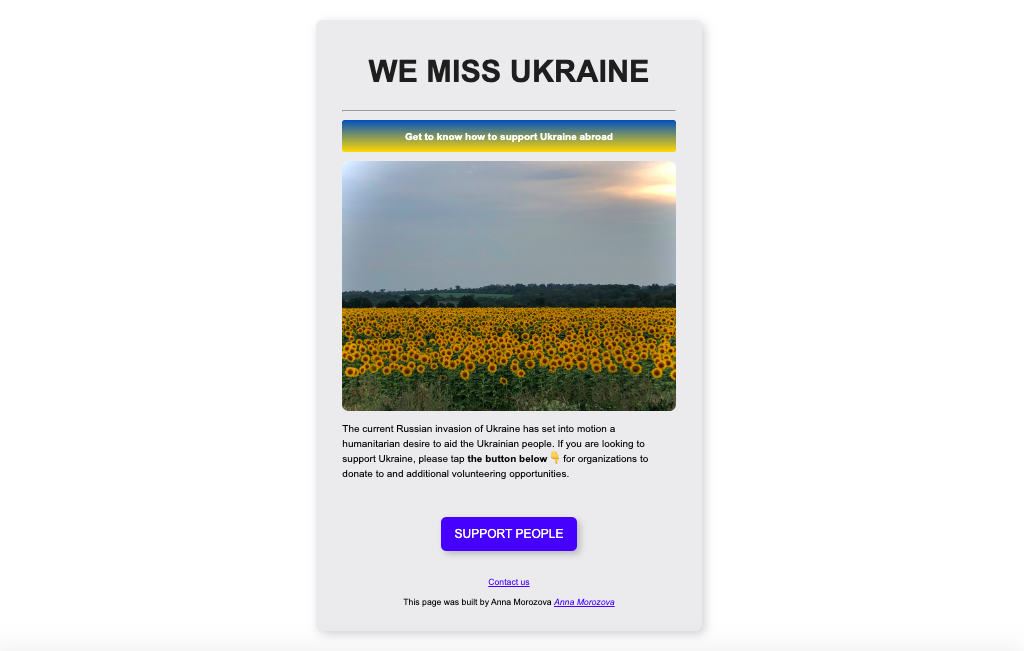
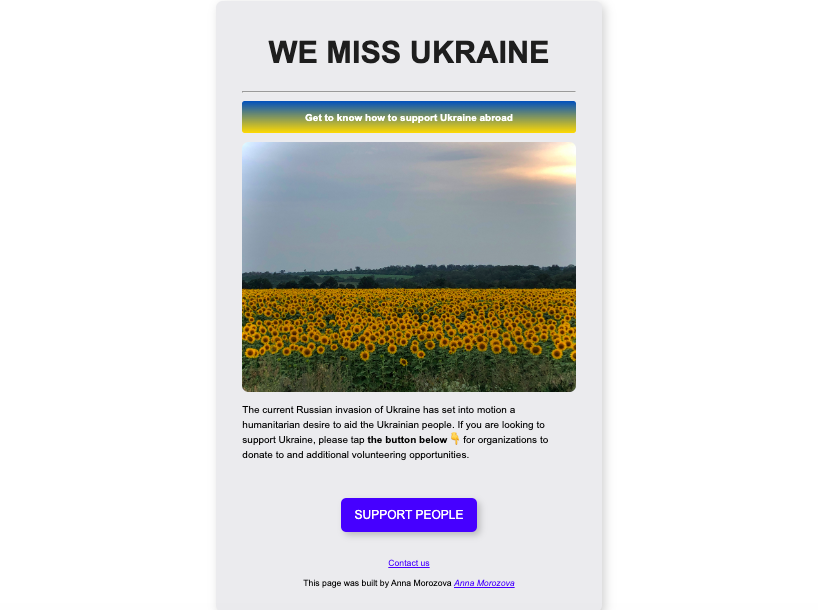
responsiveness updated

Changed region(s): [[0.2751, 0.1557, 0.7029, 0.9656], [0.3056, 0.0623, 0.6724, 0.1246]]

diff --git a/style.css b/style.css
@@ -6,8 +6,7 @@ body {
 
 #header {
     display: flex;
-    
-    margin: 32px 20px;
+    margin: 32px 0px;
 }
 
 h1 {
@@ -19,8 +18,8 @@ h1 {
 }
 
 h2 {
-    margin-top: -25px;
-    font-size: 172px;
+    margin-top: -16px;
+    font-size: 132px;
     font-weight: 100;
     color: #1e1e1e
 }
@@ -32,7 +31,9 @@ h3 {
   font-weight: 200;
   margin-top: 120px;
   color: white;
-  text-align: center;
+  text-align: right;
+  padding-right: 10px;
+  opacity: 30%;
 }
 
 .homelink:hover {
@@ -41,10 +42,12 @@ h3 {
 
 .button-85 {
   padding: 1em 3.5em;
+  width: max-content;
   font-family: system-ui, -apple-system, BlinkMacSystemFont, 'Segoe UI', Roboto, Oxygen, Ubuntu, Cantarell, 'Open Sans', 'Helvetica Neue', sans-serif;
+  font-weight: 100;
   border: none;
   outline: none;
-  color: rgb(244, 244, 244);
+  color: rgb(255, 255, 255);
   background:rgb(28, 28, 28);
   cursor: pointer;
   position: relative;
@@ -73,6 +76,7 @@ h3 {
   position: absolute;
   top: -2px;
   left: -2px;
+    font-family: system-ui, -apple-system, BlinkMacSystemFont, 'Segoe UI', Roboto, Oxygen, Ubuntu, Cantarell, 'Open Sans', 'Helvetica Neue', sans-serif;
   background-size: 400%;
   z-index: -1;
   filter: blur(5px);
@@ -100,19 +104,18 @@ h3 {
 
 .button-85:after {
   z-index: -1;
+  font-family: system-ui, -apple-system, BlinkMacSystemFont, 'Segoe UI', Roboto, Oxygen, Ubuntu, Cantarell, 'Open Sans', 'Helvetica Neue', sans-serif;
+  font-weight: 100;
   content: "";
   position: absolute;
   width: 100%;
   height: 100%;
-  background: rgb(18, 18, 18);
+  background: #1e1e1e;
   left: 0;
   top: 0;
   border-radius: 10px;
 }
 
-.button-85:hover {
-  font-weight: 700;
-}
 
 .menu {
     margin: 40px -12px;
@@ -121,14 +124,12 @@ h3 {
 }
 
 .homepage-welcome {
-  margin-bottom: 180px;
+  margin-bottom: 60px;
   margin-top: 60px;
+  margin-left: 0px;
+  margin-right: 0px;
 }
 
-.quote {
-  text-align: center;
-  margin-bottom: 30px;
-}
 
 .project-image1, .project-image2 {
   border-radius: 5px;
@@ -137,23 +138,25 @@ h3 {
 }
 
 .homepage-images {
-  margin: 80px auto;
-  text-align: center;
+  display: flex;
+  justify-content: space-evenly;
+  
 }
 
 .homepage-section {
   background: #1e1e1e;
-  margin: 80px;
+  display:block;
+  box-sizing: border-box;
+  margin: 80px 30px;
   border-radius: 10px;
   padding-bottom: 30px;
   text-align: center;
   box-shadow: rgb(52, 52, 255) 0px 4px 16px, rgba(167, 80, 255, 0.985) 0px 8px 24px, rgb(228, 51, 252) 0px 16px 56px;
 }
 
-footer {
-  display: flexbox;
-  margin-bottom: 40px;
-  flex-wrap: wrap;
+p {
+  
+  font-family: 'Courier New', Courier, monospace !important;
 }
 
 @media (max-width: 993px) {
@@ -163,6 +166,9 @@ footer {
     font-size: 46px;
     margin-top: -13px;
   }
+  h2{
+    margin-top: -25px;
+  }
   .menu {
     font-size: smaller;
   }
@@ -171,11 +177,13 @@ footer {
   }
   .project-image2 {
     width:fit-content;
-    margin-top: -60px;
   }
   h3 {
-    margin-top: 80px;
+    margin-top: 10px;
     font-size: 46px;
+    text-align: right;
+    opacity: 30%;
+    font-weight: lighter;
   }
   .homepage-images {
     margin-bottom: 50px;
@@ -193,8 +201,11 @@ footer {
     padding-top: 7px;
   }
 h3 {
-    margin-top: 60px;
+    margin-top: 10px;
     font-size: 26px;
+    text-align: right;
+    opacity: 30%;
+    font-weight: lighter;
   }
   .homepage-images {
     margin-bottom: 30px;
@@ -208,6 +219,7 @@ h3 {
       padding: 0;
       box-sizing: content-box !important;
       }
+      
 
       .button-85 {
         margin-top: 20px;

diff --git a/index.html b/index.html
@@ -37,19 +37,21 @@
     </div>
     <div class="homepage-section">
     <hr/>
+    <div class="container pt-4">
     <div class="container homepage-images">
         <div class="row">
             <div class="col d-none d-lg-block">
                 <img src="/images/1st app.png" width="910" class="img-fluid project-image1"/>
             </div>
             <div class="col">
-                <img src="/images/responsive-portfolio.png" width="461" class="img-fluid project-image2"/>
+                <img src="/images/responsive-portfolio.png" width="910" class="img-fluid project-image2"/>
             </div>
         </div>
-        <div class="row">
-            <div class="col text-center"><a href="/projects.html" class=""><h3>ALL PROJECTS</h3></a></div>
-        </div>
     </div>
+    <div class="row">
+            <div class="col"><a href="/projects.html" class=""><h3>ALL PROJECTS</h3></a></div>
+        </div>
+        </div>
     </div>
     <hr/>
     <div class="text-center">
